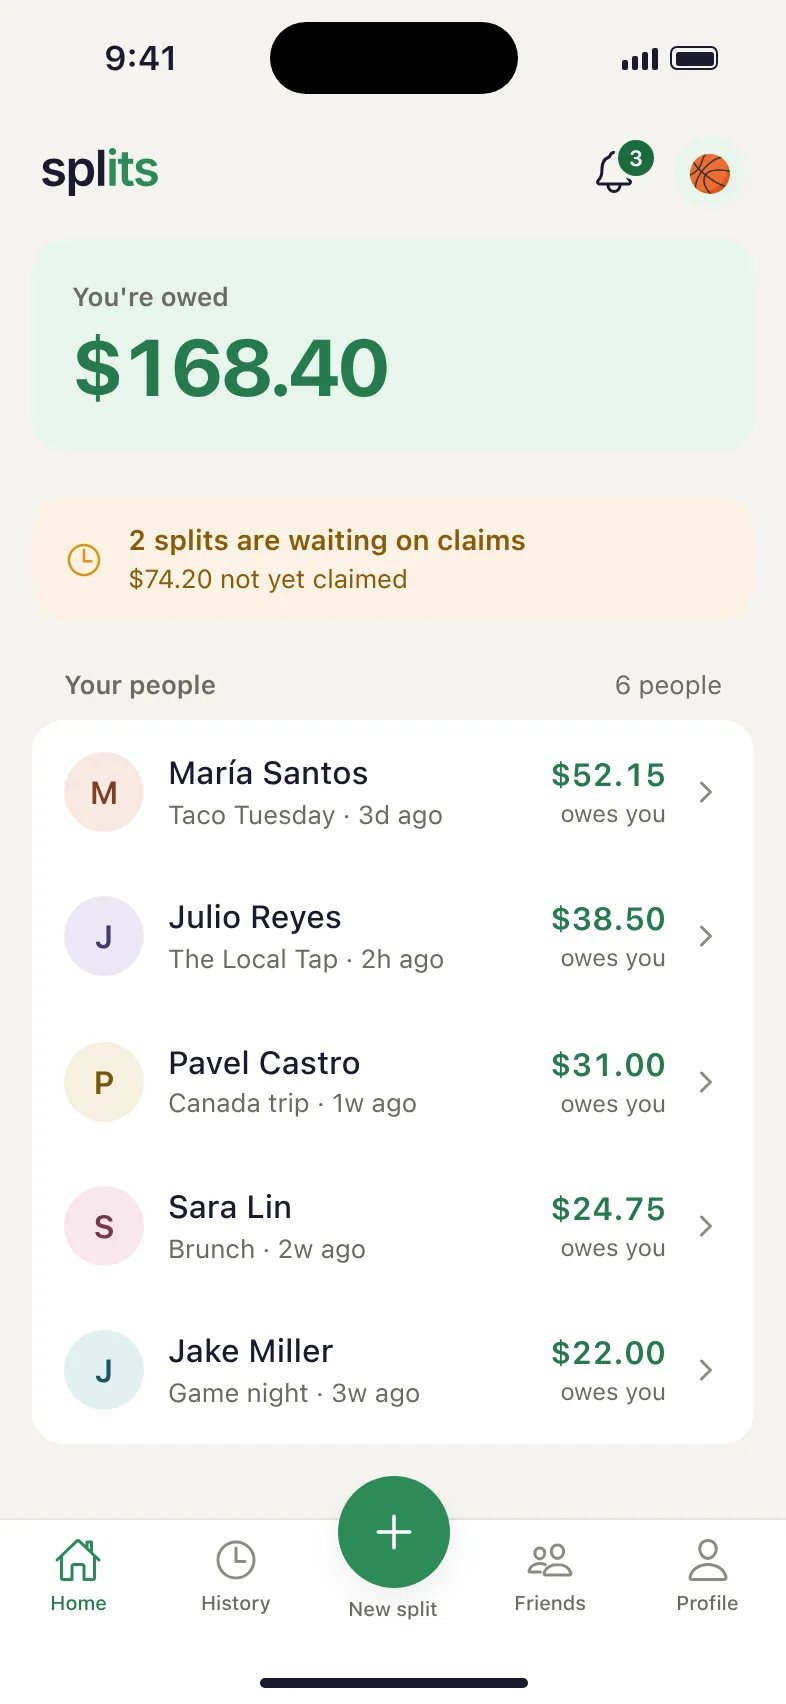
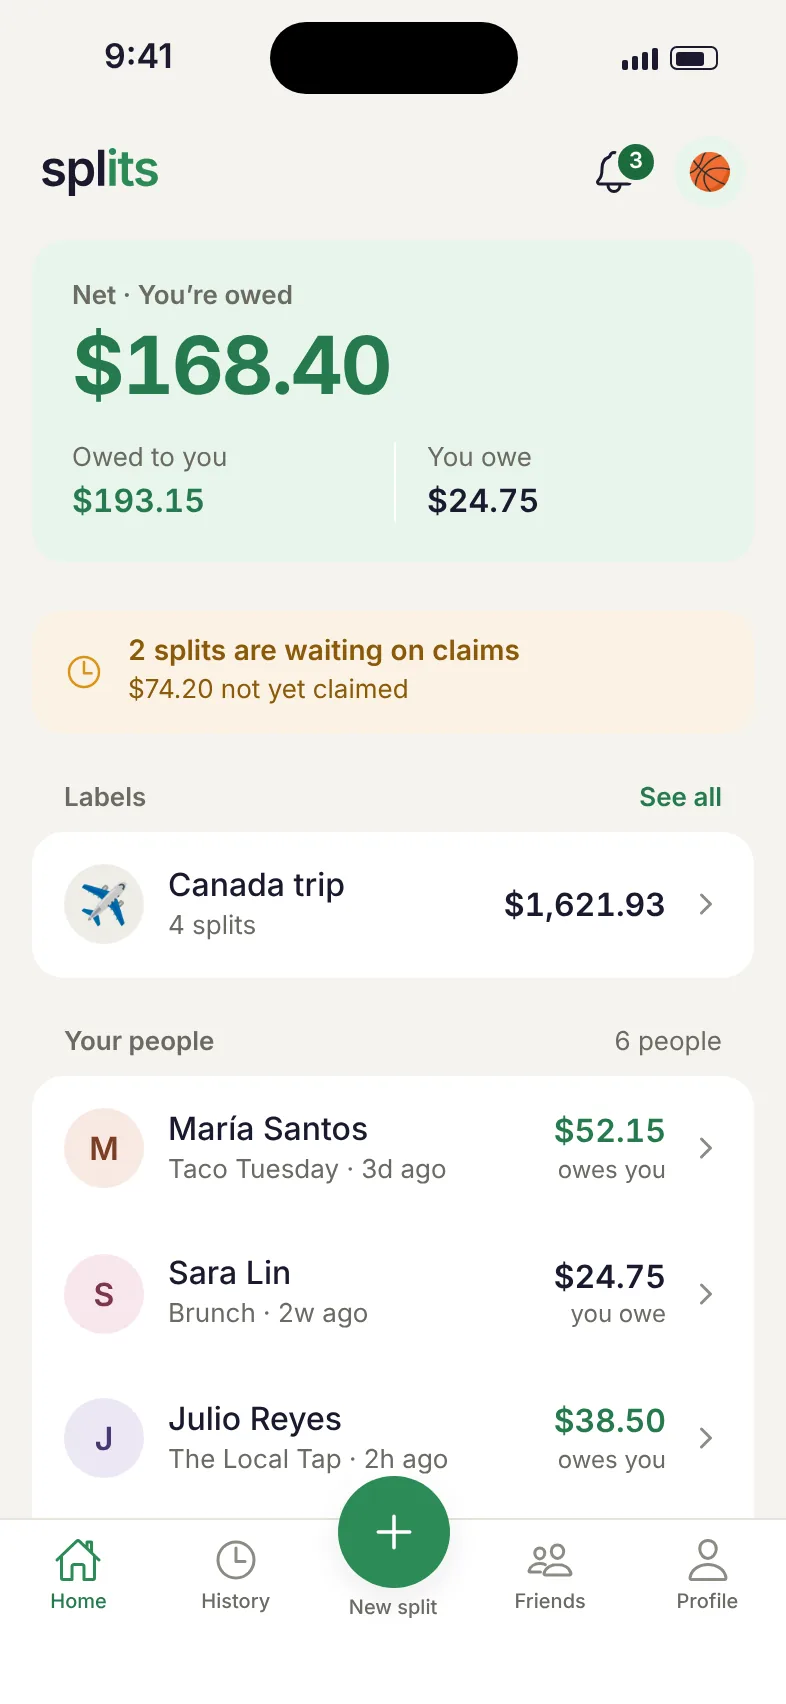
Landing draft: updated home screen, hero walks from home to scan to claim
Claude-Session: https://claude.ai/code/session_01KiKJnKfjkyrEHugxHqPbjc

diff --git a/index.html b/index.html
@@ -438,17 +438,25 @@ footer{padding:56px 0 40px;border-top:.5px solid var(--hairline);background:var(
 .fx-screens img.on{opacity:1}
 .fx-more{margin-top:64px}
 
-/* Hero reel: the three steps, crossfading. CSS only; one still frame with reduced motion. */
+/* Hero reel: home, the + sheet, camera, reading, review, share, claim. CSS only (generated timings, 16.0s loop);
+   one still frame with reduced motion. */
 .h1 span{display:block}
 .reel{position:relative}
 .reel img+img{position:absolute;inset:0}
-.reel img,.reel-steps .rs{opacity:0;animation:reel 9s linear infinite backwards}
-.reel img:nth-child(1),.reel-steps .rs:nth-child(1){animation-delay:-.36s}
-.reel img:nth-child(2),.reel-steps .rs:nth-child(2){animation-delay:2.64s}
-.reel img:nth-child(3),.reel-steps .rs:nth-child(3){animation-delay:5.64s}
+.reel img,.reel-steps .rs,.reel-tap{opacity:0;animation-duration:16.0s;animation-timing-function:linear;animation-iteration-count:infinite}
+.reel img:nth-of-type(1){animation-name:rf1}@keyframes rf1{0%{opacity:1}12.50%{opacity:1}14.69%{opacity:0}97.81%{opacity:0}100%{opacity:1}}
+.reel img:nth-of-type(2){animation-name:rf2}@keyframes rf2{0%{opacity:0}12.50%{opacity:0}14.69%{opacity:1}23.12%{opacity:1}25.31%{opacity:0}100%{opacity:0}}
+.reel img:nth-of-type(3){animation-name:rf3}@keyframes rf3{0%{opacity:0}23.12%{opacity:0}25.31%{opacity:1}36.25%{opacity:1}38.44%{opacity:0}100%{opacity:0}}
+.reel img:nth-of-type(4){animation-name:rf4}@keyframes rf4{0%{opacity:0}36.25%{opacity:0}38.44%{opacity:1}46.25%{opacity:1}48.44%{opacity:0}100%{opacity:0}}
+.reel img:nth-of-type(5){animation-name:rf5}@keyframes rf5{0%{opacity:0}46.25%{opacity:0}48.44%{opacity:1}64.38%{opacity:1}66.56%{opacity:0}100%{opacity:0}}
+.reel img:nth-of-type(6){animation-name:rf6}@keyframes rf6{0%{opacity:0}64.38%{opacity:0}66.56%{opacity:1}81.25%{opacity:1}83.44%{opacity:0}100%{opacity:0}}
+.reel img:nth-of-type(7){animation-name:rf7}@keyframes rf7{0%{opacity:0}81.25%{opacity:0}83.44%{opacity:1}97.81%{opacity:1}100%{opacity:0}}
+.reel-steps .rs:nth-child(1){animation-name:rs1}@keyframes rs1{0%{opacity:1}64.38%{opacity:1}66.56%{opacity:0}97.81%{opacity:0}100%{opacity:1}}
+.reel-steps .rs:nth-child(2){animation-name:rs2}@keyframes rs2{0%{opacity:0}64.38%{opacity:0}66.56%{opacity:1}81.25%{opacity:1}83.44%{opacity:0}100%{opacity:0}}
+.reel-steps .rs:nth-child(3){animation-name:rs3}@keyframes rs3{0%{opacity:0}81.25%{opacity:0}83.44%{opacity:1}97.81%{opacity:1}100%{opacity:0}}
+.reel-tap{position:absolute;width:15%;aspect-ratio:1;border-radius:999px;background:rgba(255,255,255,.4);box-shadow:0 0 0 2px rgba(26,26,46,.28);pointer-events:none;animation-name:rtap}@keyframes rtap{0%{opacity:0;left:50%;top:90%;transform:translate(-50%,-50%) scale(.6)}8.44%{opacity:0;left:50%;top:90%;transform:translate(-50%,-50%) scale(.6)}9.87%{opacity:1;left:50%;top:90%;transform:translate(-50%,-50%) scale(1)}11.88%{opacity:0;left:50%;top:90%;transform:translate(-50%,-50%) scale(1.5)}19.06%{opacity:0;left:50%;top:65.5%;transform:translate(-50%,-50%) scale(.6)}20.50%{opacity:1;left:50%;top:65.5%;transform:translate(-50%,-50%) scale(1)}22.50%{opacity:0;left:50%;top:65.5%;transform:translate(-50%,-50%) scale(1.5)}32.19%{opacity:0;left:50%;top:85.7%;transform:translate(-50%,-50%) scale(.6)}33.63%{opacity:1;left:50%;top:85.7%;transform:translate(-50%,-50%) scale(1)}35.63%{opacity:0;left:50%;top:85.7%;transform:translate(-50%,-50%) scale(1.5)}60.31%{opacity:0;left:50%;top:92.6%;transform:translate(-50%,-50%) scale(.6)}61.75%{opacity:1;left:50%;top:92.6%;transform:translate(-50%,-50%) scale(1)}63.75%{opacity:0;left:50%;top:92.6%;transform:translate(-50%,-50%) scale(1.5)}77.19%{opacity:0;left:50%;top:46%;transform:translate(-50%,-50%) scale(.6)}78.62%{opacity:1;left:50%;top:46%;transform:translate(-50%,-50%) scale(1)}80.62%{opacity:0;left:50%;top:46%;transform:translate(-50%,-50%) scale(1.5)}100%{opacity:0;left:50%;top:90%;transform:translate(-50%,-50%) scale(.6)}}
 .reel-steps{display:grid;left:-132px;bottom:56px}
 .reel-steps .rs{grid-area:1/1;display:flex;align-items:center;gap:12px}
-@keyframes reel{0%{opacity:0}4%{opacity:1}33.3%{opacity:1}37.3%{opacity:0}100%{opacity:0}}
 
 /* Try it: a self-contained demo of the page friends see. No network, resets on reload. */
 .demo .phone{--pw:316px;border-radius:44px;padding:9px}
@@ -582,9 +590,9 @@ footer{padding:56px 0 40px;border-top:.5px solid var(--hairline);background:var(
   .jtm-caret,.jtm-typing .dots i{animation:none}
   .jtm-stage[data-step="2"] .jtm-card,.jtm-stage[data-step="3"] .jtm-done-check{animation:none}
   .jtm-frame,.js .reveal,.faq-a,.faq-q .chev{transition:none}
-  .reel img,.reel-steps .rs{animation:none}
+  .reel img,.reel-steps .rs,.reel-tap{animation:none}
   .fx-screens img{transition:none}
-  .reel img:nth-child(3),.reel-steps .rs:nth-child(3){opacity:1}
+  .reel img:nth-of-type(7),.reel-steps .rs:nth-child(3){opacity:1}
   html{scroll-behavior:auto}
 }
 
@@ -679,9 +687,14 @@ footer{padding:56px 0 40px;border-top:.5px solid var(--hairline);background:var(
       </div>
       <div class="hero-mock-wrap">
         <div class="phone phone-lg"><div class="reel">
-          <img src="/screens/review.webp" width="786" height="1704" alt="Step 1: the receipt, with every item read by AI" loading="eager" fetchpriority="high" decoding="async" />
+          <img src="/screens/home.webp" width="786" height="1704" alt="Splits home screen: your net balance, labels and the people you share with" loading="eager" fetchpriority="high" decoding="async" />
+          <img src="/screens/add-sheet.webp" width="786" height="1704" alt="The add menu: scan a receipt, just tell me, or quick add" loading="eager" decoding="async" />
+          <img src="/screens/camera.webp" width="786" height="1704" alt="The camera pointed at a restaurant receipt" loading="eager" decoding="async" />
+          <img src="/screens/reading.webp" width="786" height="1704" alt="Splits reading the receipt with AI" loading="eager" decoding="async" />
+          <img src="/screens/review.webp" width="786" height="1704" alt="Step 1: the receipt, with every item read by AI" loading="eager" decoding="async" />
           <img src="/screens/share.webp" width="786" height="1704" alt="Step 2: the split shared as a link" loading="eager" decoding="async" />
           <img src="/screens/claim.webp" width="786" height="1704" alt="Step 3: each person taps the items they had" loading="eager" decoding="async" />
+          <span class="reel-tap" aria-hidden="true"></span>
         </div></div>
         <div class="callout reel-steps" aria-hidden="true">
           <div class="rs"><div class="step-num">1</div><div><b>Snap the receipt</b><span>AI reads every item</span></div></div>
@@ -881,7 +894,7 @@ footer{padding:56px 0 40px;border-top:.5px solid var(--hairline);background:var(
         <button type="button" class="fx-item" aria-pressed="false" data-fx="3"><span class="fx-title">Fewer payments with Smart Settle</span><span class="fx-desc">Inside a label, Smart Settle cuts down the number of payments. If Ben owes you and you owe Clara the same amount, Ben pays Clara directly. The label’s owner turns it on, and anyone whose money moved can undo it within 24 hours, as long as the new payment hasn’t been made.</span></button>
       </div>
       <div class="fx-visual"><div class="phone phone-lg"><div class="fx-screens">
-        <img class="on" src="/screens/home.webp" width="786" height="1704" alt="Splits home screen: your balance and the people who owe you" loading="lazy" decoding="async" />
+        <img class="on" src="/screens/home.webp" width="786" height="1704" alt="Splits home screen: your net balance, labels and the people you share with" loading="lazy" decoding="async" />
         <img src="/screens/settle.webp" width="786" height="1704" alt="Settle up screen with Venmo, Cash App and Zelle options" loading="lazy" decoding="async" />
         <img src="/screens/labels.webp" width="786" height="1704" alt="History filtered to one label, showing what you owe across that trip’s splits" loading="lazy" decoding="async" />
         <img src="/screens/smart-settle.webp" width="786" height="1704" alt="Balances for one label after Smart Settle, showing who owes who and which payments were simplified" loading="lazy" decoding="async" />
